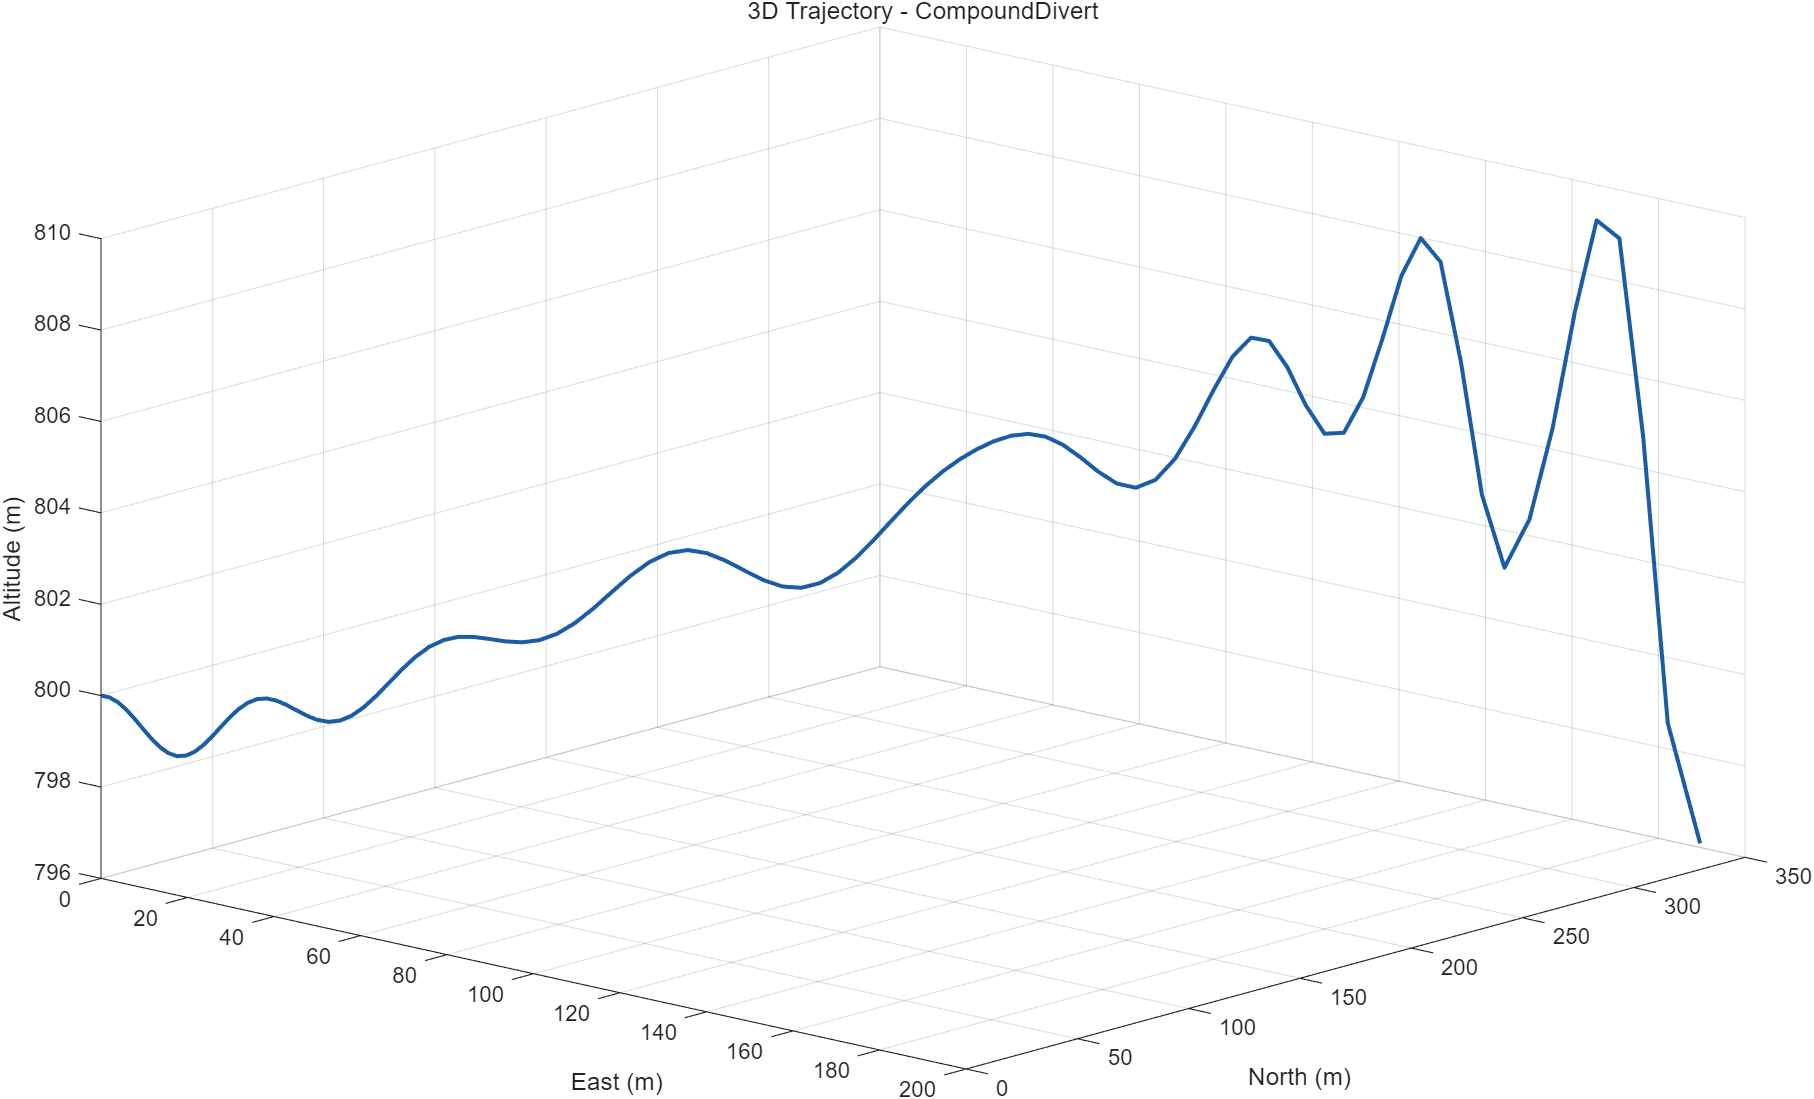
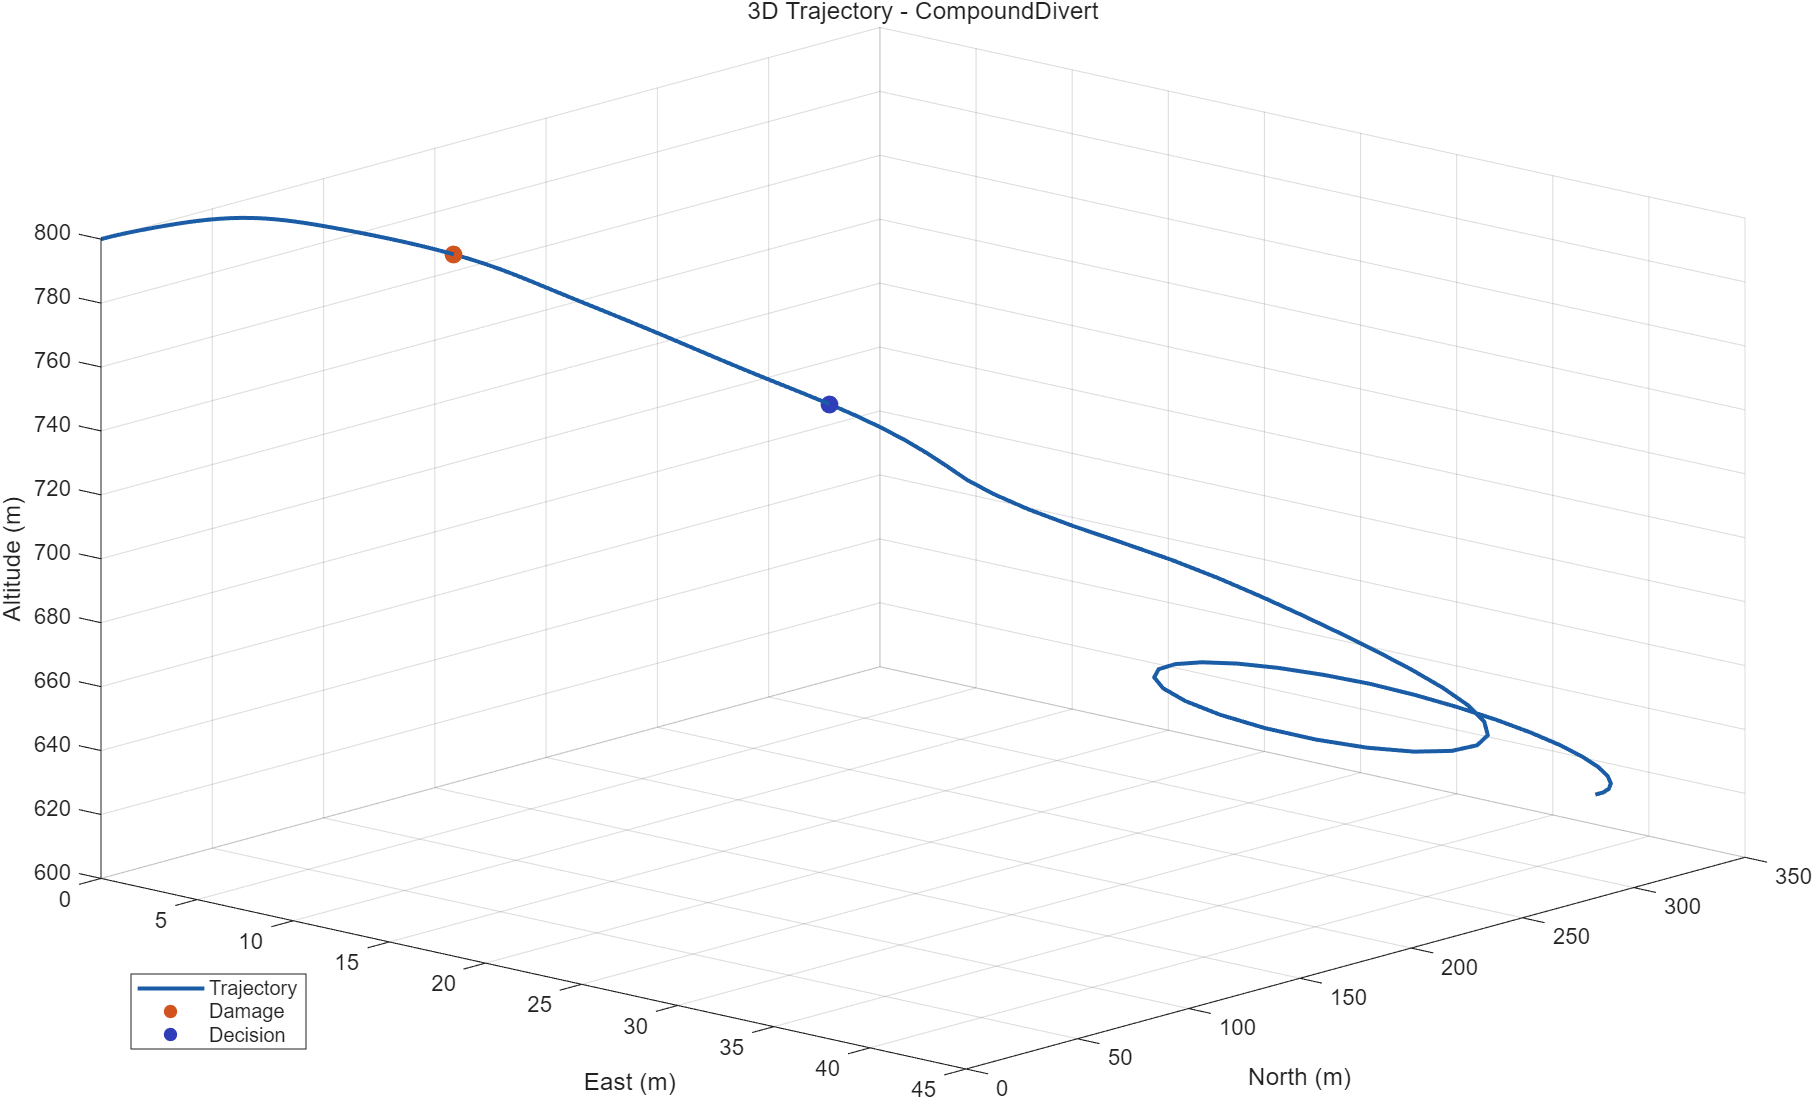
Fix demo trajectory timeline

diff --git a/scripts/run_demo_scenario.m b/scripts/run_demo_scenario.m
@@ -13,9 +13,9 @@ S = load(sweepPath, 'sweepResult');
 bestModel = S.sweepResult.entries(S.sweepResult.bestIndex).identifierModel;
 
 scenarioDefs = { ...
-    struct('name', 'MildWingReturn', 'theta_d', [0.18;0.12;0.02;0.01;zeros(8,1)], 'scenarioType', 'wing', 'severity', 0.15, 'damageCategory', 'wing', 'damageSeverityLevel', 'low', 'flightConditionTag', 'cruise_nominal', 'excitationType', 'step_sine', 'disturbanceGain', 0.9, 'windLevel_mps', 0), ...
-    struct('name', 'CompoundDivert', 'theta_d', [0.30;0.45;0.10;0.18;0.20;0.24;0.18;0.30;0.22;0.28;0.20;0.18], 'scenarioType', 'compound', 'severity', 0.28, 'damageCategory', 'compound', 'damageSeverityLevel', 'moderate', 'flightConditionTag', 'gust_entry', 'excitationType', 'multisine', 'disturbanceGain', 1.1, 'windLevel_mps', 4), ...
-    struct('name', 'SevereEgress', 'theta_d', [0.60;0.72;0.20;0.35;0.44;0.48;0.40;0.68;0.62;0.58;0.50;0.66], 'scenarioType', 'compound', 'severity', 0.52, 'damageCategory', 'compound', 'damageSeverityLevel', 'severe', 'flightConditionTag', 'low_altitude', 'excitationType', 'doublet', 'disturbanceGain', 1.25, 'windLevel_mps', 8)};
+    struct('name', 'MildWingReturn', 'theta_d', [0.18;0.12;0.02;0.01;zeros(8,1)], 'scenarioType', 'wing', 'severity', 0.15, 'damageCategory', 'wing', 'damageSeverityLevel', 'low', 'flightConditionTag', 'cruise_nominal', 'excitationType', 'step_sine', 'disturbanceGain', 0.9, 'windLevel_mps', 0, 'damageStartTime', 3.0, 'damageRampDuration', 1.0, 'assessmentDelay', 2.0), ...
+    struct('name', 'CompoundDivert', 'theta_d', [0.30;0.45;0.10;0.18;0.20;0.24;0.18;0.30;0.22;0.28;0.20;0.18], 'scenarioType', 'compound', 'severity', 0.28, 'damageCategory', 'compound', 'damageSeverityLevel', 'moderate', 'flightConditionTag', 'gust_entry', 'excitationType', 'multisine', 'disturbanceGain', 1.1, 'windLevel_mps', 4, 'damageStartTime', 3.0, 'damageRampDuration', 1.0, 'assessmentDelay', 2.0), ...
+    struct('name', 'SevereEgress', 'theta_d', [0.60;0.72;0.20;0.35;0.44;0.48;0.40;0.68;0.62;0.58;0.50;0.66], 'scenarioType', 'compound', 'severity', 0.52, 'damageCategory', 'compound', 'damageSeverityLevel', 'severe', 'flightConditionTag', 'low_altitude', 'excitationType', 'doublet', 'disturbanceGain', 1.25, 'windLevel_mps', 8, 'damageStartTime', 3.0, 'damageRampDuration', 1.0, 'assessmentDelay', 2.0)};
 
 demoOutputs = repmat(struct('scenarioName', "", 'vizResult', [], 'exportPaths', [], 'identified', [], 'oracle', []), numel(scenarioDefs), 1);
 for i = 1:numel(scenarioDefs)
@@ -24,17 +24,25 @@ for i = 1:numel(scenarioDefs)
     info.commandBias = zeros(4, 1);
     info.splitTag = 'test';
     info.datasetVersion = 'demo';
-    sample = simulate_identifier_timeseries(info.theta_d, bestModel.config, info);
     pipeline = run_online_assessment_pipeline(info.theta_d, bestModel, bestModel.config, 'identified', info);
 
     modeCode = pipeline.identified.decisionOutput.modeCode;
+    decisionTime = info.damageStartTime + info.assessmentDelay;
+    vizInfo = info;
+    vizInfo.decisionTime = decisionTime;
+    vizInfo.decisionMode = pipeline.identified.decisionOutput.mode;
+    sample = simulate_identifier_timeseries(info.theta_d, bestModel.config, vizInfo);
+
     demoResult = struct();
     demoResult.scenarioName = info.name;
     demoResult.time = sample.time;
     demoResult.stateHist = sample.stateHist;
-    demoResult.etaTotalHist = repmat(pipeline.identified.ctrlMetrics.eta_total, numel(sample.time), 1);
-    demoResult.confidenceHist = repmat(pipeline.identified.identifierOutput.confidence, numel(sample.time), 1);
-    demoResult.modeHist = repmat(modeCode, numel(sample.time), 1);
+    demoResult.etaTotalHist = build_assessment_trace(sample.time, sample.damageGate, pipeline.identified.ctrlMetrics.eta_total);
+    demoResult.confidenceHist = build_confidence_trace(sample.time, info.damageStartTime, decisionTime, pipeline.identified.identifierOutput.confidence);
+    demoResult.modeHist = build_mode_trace(sample.time, decisionTime, modeCode);
+    demoResult.eventTimes = struct( ...
+        'damageStartTime', info.damageStartTime, ...
+        'decisionTime', decisionTime);
     vizResult = visualize_flight_scenario(demoResult);
     exportPaths = export_demo_figures(vizResult, fullfile(rootDir, 'results', 'demo_figures'));
 
@@ -63,4 +71,29 @@ switch lower(tag)
     otherwise
         x0 = base;
 end
+end
+
+function etaHist = build_assessment_trace(t, damageGate, finalEta)
+t = t(:);
+damageGate = damageGate(:);
+etaHist = 1.0 - damageGate .* (1.0 - finalEta);
+etaHist(~isfinite(etaHist)) = finalEta;
+etaHist = min(max(etaHist, 0.0), 1.0);
+if numel(etaHist) ~= numel(t)
+    etaHist = repmat(finalEta, numel(t), 1);
+end
+end
+
+function confidenceHist = build_confidence_trace(t, damageStartTime, decisionTime, finalConfidence)
+t = t(:);
+confidenceHist = ones(numel(t), 1);
+assessmentWindow = max(decisionTime - damageStartTime, eps);
+idx = t >= damageStartTime;
+blend = min(max((t(idx) - damageStartTime) ./ assessmentWindow, 0.0), 1.0);
+confidenceHist(idx) = 1.0 - blend .* (1.0 - finalConfidence);
+end
+
+function modeHist = build_mode_trace(t, decisionTime, modeCode)
+modeHist = zeros(numel(t), 1);
+modeHist(t >= decisionTime) = modeCode;
 end

diff --git a/scripts/visualize_flight_scenario.m b/scripts/visualize_flight_scenario.m
@@ -20,6 +20,7 @@ altitude = -positionNED(:, 3);
 etaTotalHist = ensure_hist(scenarioResult, 'etaTotalHist', numel(t), 1.0);
 confidenceHist = ensure_hist(scenarioResult, 'confidenceHist', numel(t), 1.0);
 modeHist = ensure_hist(scenarioResult, 'modeHist', numel(t), 0);
+eventTimes = get_event_times(scenarioResult);
 
 vizResult = struct();
 vizResult.scenarioName = string(scenarioResult.scenarioName);
@@ -27,16 +28,22 @@ vizResult.figures = struct();
 
 f1 = figure('Name', char(vizResult.scenarioName + " - 3D Trajectory"), 'Color', 'w');
 plot3(positionNED(:, 2), positionNED(:, 1), altitude, 'LineWidth', 1.8, 'Color', [0.10 0.36 0.65]);
+hold on;
+mark_trajectory_event(t, positionNED, altitude, eventTimes.damageStartTime, [0.82 0.33 0.12], 'Damage');
+mark_trajectory_event(t, positionNED, altitude, eventTimes.decisionTime, [0.19 0.24 0.72], 'Decision');
+hold off;
 grid on;
 xlabel('East (m)');
 ylabel('North (m)');
 zlabel('Altitude (m)');
 title(sprintf('3D Trajectory - %s', scenarioResult.scenarioName), 'Interpreter', 'none');
+legend('Trajectory', 'Damage', 'Decision', 'Location', 'best');
 view(42, 24);
 vizResult.figures.trajectory3d = f1;
 
 f2 = figure('Name', char(vizResult.scenarioName + " - Altitude"), 'Color', 'w');
 plot(t, altitude, 'LineWidth', 1.8, 'Color', [0.82 0.33 0.12]);
+add_timeline_events(eventTimes);
 grid on;
 xlabel('Time (s)');
 ylabel('Altitude (m)');
@@ -45,6 +52,7 @@ vizResult.figures.altitude = f2;
 
 f3 = figure('Name', char(vizResult.scenarioName + " - Speed"), 'Color', 'w');
 plot(t, speed, 'LineWidth', 1.8, 'Color', [0.14 0.58 0.36]);
+add_timeline_events(eventTimes);
 grid on;
 xlabel('Time (s)');
 ylabel('Speed (m/s)');
@@ -55,17 +63,20 @@ f4 = figure('Name', char(vizResult.scenarioName + " - Assessment"), 'Color', 'w'
 tiledlayout(3, 1, 'TileSpacing', 'compact', 'Padding', 'compact');
 nexttile;
 plot(t, etaTotalHist, 'LineWidth', 1.8, 'Color', [0.19 0.24 0.72]);
+add_timeline_events(eventTimes);
 ylim([0 1.05]);
 grid on;
 ylabel('\eta_{total}');
 title(sprintf('Assessment Trace - %s', scenarioResult.scenarioName), 'Interpreter', 'none');
 nexttile;
 plot(t, confidenceHist, 'LineWidth', 1.8, 'Color', [0.46 0.24 0.62]);
+add_timeline_events(eventTimes);
 ylim([0 1.05]);
 grid on;
 ylabel('Confidence');
 nexttile;
 stairs(t, modeHist, 'LineWidth', 1.8, 'Color', [0.56 0.12 0.12]);
+add_timeline_events(eventTimes);
 grid on;
 xlabel('Time (s)');
 ylabel('Mode Code');
@@ -78,7 +89,8 @@ vizResult.traces = struct( ...
     'speed', speed, ...
     'etaTotalHist', etaTotalHist, ...
     'confidenceHist', confidenceHist, ...
-    'modeHist', modeHist);
+    'modeHist', modeHist, ...
+    'eventTimes', eventTimes);
 end
 
 function y = ensure_hist(scenarioResult, fieldName, N, defaultValue)
@@ -94,4 +106,38 @@ elseif numel(y) > N
 elseif numel(y) < N
     y(end + 1:N, 1) = y(end);
 end
+end
+
+function eventTimes = get_event_times(scenarioResult)
+eventTimes = struct('damageStartTime', [], 'decisionTime', []);
+if isfield(scenarioResult, 'eventTimes') && ~isempty(scenarioResult.eventTimes)
+    if isfield(scenarioResult.eventTimes, 'damageStartTime')
+        eventTimes.damageStartTime = scenarioResult.eventTimes.damageStartTime;
+    end
+    if isfield(scenarioResult.eventTimes, 'decisionTime')
+        eventTimes.decisionTime = scenarioResult.eventTimes.decisionTime;
+    end
+end
+end
+
+function mark_trajectory_event(t, positionNED, altitude, eventTime, markerColor, markerName)
+if isempty(eventTime) || ~isfinite(eventTime)
+    return;
+end
+[~, idx] = min(abs(t - eventTime));
+scatter3(positionNED(idx, 2), positionNED(idx, 1), altitude(idx), 64, markerColor, ...
+    'filled', 'DisplayName', markerName);
+end
+
+function add_timeline_events(eventTimes)
+hold on;
+if ~isempty(eventTimes.damageStartTime) && isfinite(eventTimes.damageStartTime)
+    xline(eventTimes.damageStartTime, '--', 'Damage', 'Color', [0.82 0.33 0.12], ...
+        'LabelVerticalAlignment', 'bottom');
+end
+if ~isempty(eventTimes.decisionTime) && isfinite(eventTimes.decisionTime)
+    xline(eventTimes.decisionTime, '--', 'Decision', 'Color', [0.19 0.24 0.72], ...
+        'LabelVerticalAlignment', 'top');
+end
+hold off;
 end

diff --git a/functions/simulate_identifier_timeseries.m b/functions/simulate_identifier_timeseries.m
@@ -47,18 +47,25 @@ end
 if ~isfield(scenarioInfo, 'datasetVersion') || isempty(scenarioInfo.datasetVersion)
     scenarioInfo.datasetVersion = 'identifier_dataset_v3';
 end
+if ~isfield(scenarioInfo, 'damageStartTime') || isempty(scenarioInfo.damageStartTime)
+    scenarioInfo.damageStartTime = 0.0;
+end
+if ~isfield(scenarioInfo, 'damageRampDuration') || isempty(scenarioInfo.damageRampDuration)
+    scenarioInfo.damageRampDuration = 1.0;
+end
 
 dt = identifierConfig.sequenceDt;
 t = (0:dt:identifierConfig.historyDuration).';
 N = numel(t);
 
 baseState = repmat(scenarioInfo.initialState(:).', N, 1);
-uCmdBase = repmat((Pcfg.control.modeCommands.NORMAL(:) + scenarioInfo.commandBias(:)).', N, 1);
+uCmdBase = build_command_profile(Pcfg, t, scenarioInfo);
 uCmdBase = apply_excitation(uCmdBase, t, scenarioInfo.excitationType);
+damageGate = build_damage_gate(t, scenarioInfo.damageStartTime, scenarioInfo.damageRampDuration);
 
 damageEffects = map_damage_to_aero_effects(damageParams, scenarioInfo.initialState, uCmdBase(1, :).');
 flightCondition = build_flight_condition(scenarioInfo.initialState, uCmdBase(1, :).');
-flightCondition.damageSeverity = damageParams.severity.overall;
+flightCondition.damageSeverity = scenario_damage_severity(scenarioInfo, damageParams.severity.overall);
 ctrlMetrics = compute_control_authority_metrics(damageParams, damageEffects, flightCondition);
 
 nominalState = zeros(N, 12);
@@ -66,6 +73,7 @@ nominalAccel = zeros(N, 3);
 nominalControl = zeros(N, 4);
 measuredState = zeros(N, 12);
 residualExcitation = scenarioInfo.disturbanceGain * build_disturbance_profile(t, damageParams, ctrlMetrics);
+residualExcitation = residualExcitation .* damageGate;
 windExcitation = build_wind_disturbance_profile(t, scenarioInfo.windLevel_mps);
 
 nominalState(1, :) = scenarioInfo.initialState(:).';
@@ -128,6 +136,7 @@ sample.featureSummary = flatten_feature(selectedFeature);
 sample.featureModeReadyData = featureModeReadyData;
 sample.featureInfo = featureInfo;
 sample.scenarioInfo = scenarioInfo;
+sample.damageGate = damageGate;
 sample.damageCategory = string(scenarioInfo.damageCategory);
 sample.damageSeverityLevel = string(scenarioInfo.damageSeverityLevel);
 sample.excitationType = string(scenarioInfo.excitationType);
@@ -139,6 +148,41 @@ sample.decisionOutput = decisionOutput;
 sample.damageParams = damageParams;
 sample.damageEffects = damageEffects;
 sample.datasetSplitTag = scenarioInfo.splitTag;
+end
+
+function severity = scenario_damage_severity(scenarioInfo, fallbackSeverity)
+severity = fallbackSeverity;
+if isfield(scenarioInfo, 'severity') && ~isempty(scenarioInfo.severity)
+    severity = scenarioInfo.severity;
+end
+severity = min(max(severity, 0.0), 1.0);
+end
+
+function uCmd = build_command_profile(Pcfg, t, scenarioInfo)
+normalCommand = Pcfg.control.modeCommands.NORMAL(:) + scenarioInfo.commandBias(:);
+uCmd = repmat(normalCommand.', numel(t), 1);
+if ~isfield(scenarioInfo, 'decisionMode') || isempty(scenarioInfo.decisionMode)
+    return;
+end
+if ~isfield(scenarioInfo, 'decisionTime') || isempty(scenarioInfo.decisionTime)
+    return;
+end
+
+modeName = upper(char(string(scenarioInfo.decisionMode)));
+if ~isfield(Pcfg.control.modeCommands, modeName)
+    return;
+end
+decisionCommand = Pcfg.control.modeCommands.(modeName)(:) + scenarioInfo.commandBias(:);
+idx = t >= scenarioInfo.decisionTime;
+uCmd(idx, :) = repmat(decisionCommand.', nnz(idx), 1);
+end
+
+function damageGate = build_damage_gate(t, damageStartTime, damageRampDuration)
+if damageRampDuration <= 0
+    damageGate = double(t >= damageStartTime);
+    return;
+end
+damageGate = min(max((t - damageStartTime) ./ damageRampDuration, 0.0), 1.0);
 end
 
 function uCmd = apply_excitation(uCmd, t, excitationType)

diff --git a/functions/predict_nominal_response.m b/functions/predict_nominal_response.m
@@ -41,12 +41,24 @@ euler = currentState(7:9);
 pqr = currentState(10:12);
 
 accelBody = fm(1:3) / mass - cross(pqr, uvw);
+accelBody = clamp_vector(accelBody, -60.0, 60.0);
 angAccel = [fm(4) / inertiaDiag(1); fm(5) / inertiaDiag(2); fm(6) / inertiaDiag(3)];
+angAccel = clamp_vector(angAccel, -4.0, 4.0);
 
 predictedVel = uvw + dt * accelBody;
+speed = norm(predictedVel);
+if speed > 120.0
+    predictedVel = predictedVel * (120.0 / speed);
+end
 predictedAngRate = pqr + dt * angAccel;
-predictedAttitude = euler + dt * pqr;
-predictedPosition = currentState(1:3) + dt * predictedVel;
+predictedAngRate = clamp_vector(predictedAngRate, -1.5, 1.5);
+predictedAttitude = euler + dt * euler_rate_from_body_rates(euler, pqr);
+predictedAttitude(1) = wrapToPiLocal(predictedAttitude(1));
+predictedAttitude(2) = min(max(predictedAttitude(2), deg2rad(-75)), deg2rad(75));
+predictedAttitude(3) = wrapToPiLocal(predictedAttitude(3));
+
+velNed = body_to_ned(euler, predictedVel);
+predictedPosition = currentState(1:3) + dt * velNed;
 predictedState = [predictedPosition; predictedVel; predictedAttitude; predictedAngRate];
 
 nominalPrediction = struct();
@@ -60,4 +72,39 @@ nominalPrediction.predictedAccelHist = accelBody.';
 nominalPrediction.controlHist = commandedInput.';
 nominalPrediction.dt = dt;
 nominalPrediction.predictorName = 'simple_airframe_nominal_predictor';
+end
+
+function y = clamp_vector(x, lo, hi)
+y = min(max(x, lo), hi);
+end
+
+function ned = body_to_ned(euler, body)
+phi = euler(1);
+theta = euler(2);
+psi = euler(3);
+cphi = cos(phi); sphi = sin(phi);
+cth = cos(theta); sth = sin(theta);
+cpsi = cos(psi); spsi = sin(psi);
+
+R_nb = [ ...
+    cth*cpsi, sphi*sth*cpsi - cphi*spsi, cphi*sth*cpsi + sphi*spsi; ...
+    cth*spsi, sphi*sth*spsi + cphi*cpsi, cphi*sth*spsi - sphi*cpsi; ...
+    -sth,     sphi*cth,                  cphi*cth];
+ned = R_nb * body(:);
+end
+
+function eulerRate = euler_rate_from_body_rates(euler, pqr)
+phi = euler(1);
+theta = min(max(euler(2), deg2rad(-80)), deg2rad(80));
+p = pqr(1);
+q = pqr(2);
+r = pqr(3);
+eulerRate = [ ...
+    p + tan(theta) * (q * sin(phi) + r * cos(phi)); ...
+    q * cos(phi) - r * sin(phi); ...
+    (q * sin(phi) + r * cos(phi)) / max(cos(theta), 1.0e-3)];
+end
+
+function angle = wrapToPiLocal(angle)
+angle = mod(angle + pi, 2*pi) - pi;
 end

diff --git a/functions/run_online_assessment_pipeline.m b/functions/run_online_assessment_pipeline.m
@@ -17,7 +17,7 @@ end
 sample = simulate_identifier_timeseries(theta_d, identifierConfig, scenarioInfo);
 Pcfg = evalin('base', 'P');
 flightCondition = build_flight_condition(sample.stateHist(1, :).', sample.inputHist(1, :).');
-flightCondition.damageSeverity = mean(theta_d);
+flightCondition.damageSeverity = scenario_damage_severity(scenarioInfo, mean(theta_d));
 flightCondition.decisionConfig = Pcfg.decision;
 
 oracle = struct();
@@ -93,4 +93,12 @@ function etaHistory = build_eta_history(identifierOutput)
 neighbor = identifierOutput.predictionMeta.neighborMean(:).';
 current = [identifierOutput.eta_roll_hat, identifierOutput.eta_pitch_hat, identifierOutput.eta_yaw_hat, identifierOutput.eta_total_hat];
 etaHistory = [neighbor; current];
+end
+
+function severity = scenario_damage_severity(scenarioInfo, fallbackSeverity)
+severity = fallbackSeverity;
+if isstruct(scenarioInfo) && isfield(scenarioInfo, 'severity') && ~isempty(scenarioInfo.severity)
+    severity = scenarioInfo.severity;
+end
+severity = min(max(severity, 0.0), 1.0);
 end
